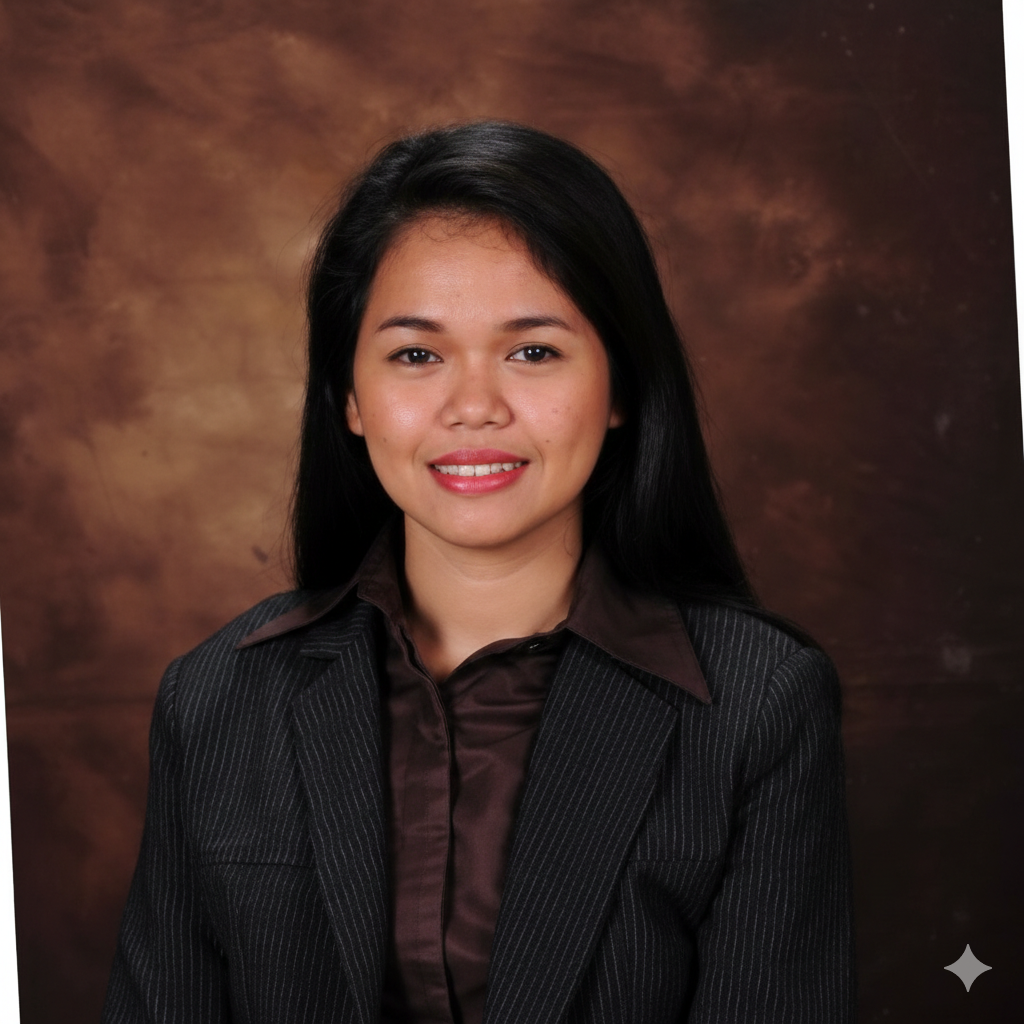
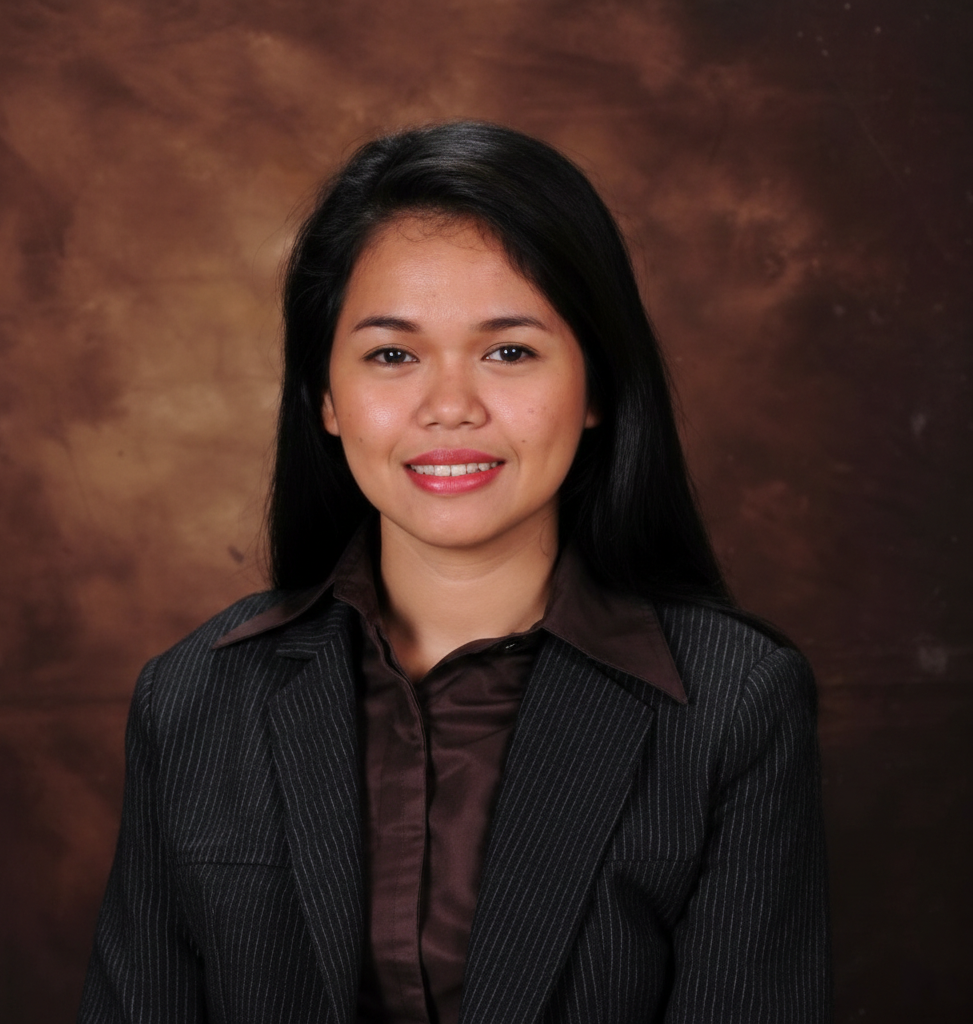
Add files via upload

diff --git a/index.html b/index.html
@@ -76,7 +76,7 @@
                 <div class="row align-items-center">
 
                     <div class="col-md-6 text-center">
-                        <img src="images/juma.png"
+                        <img src="images/juma2.png"
                              width="400" style="border: 8px solid white; border-radius: 300px; box-shadow: 0px 4px 10px #00ffff; " class="img-fluid" />
                     </div>
 
